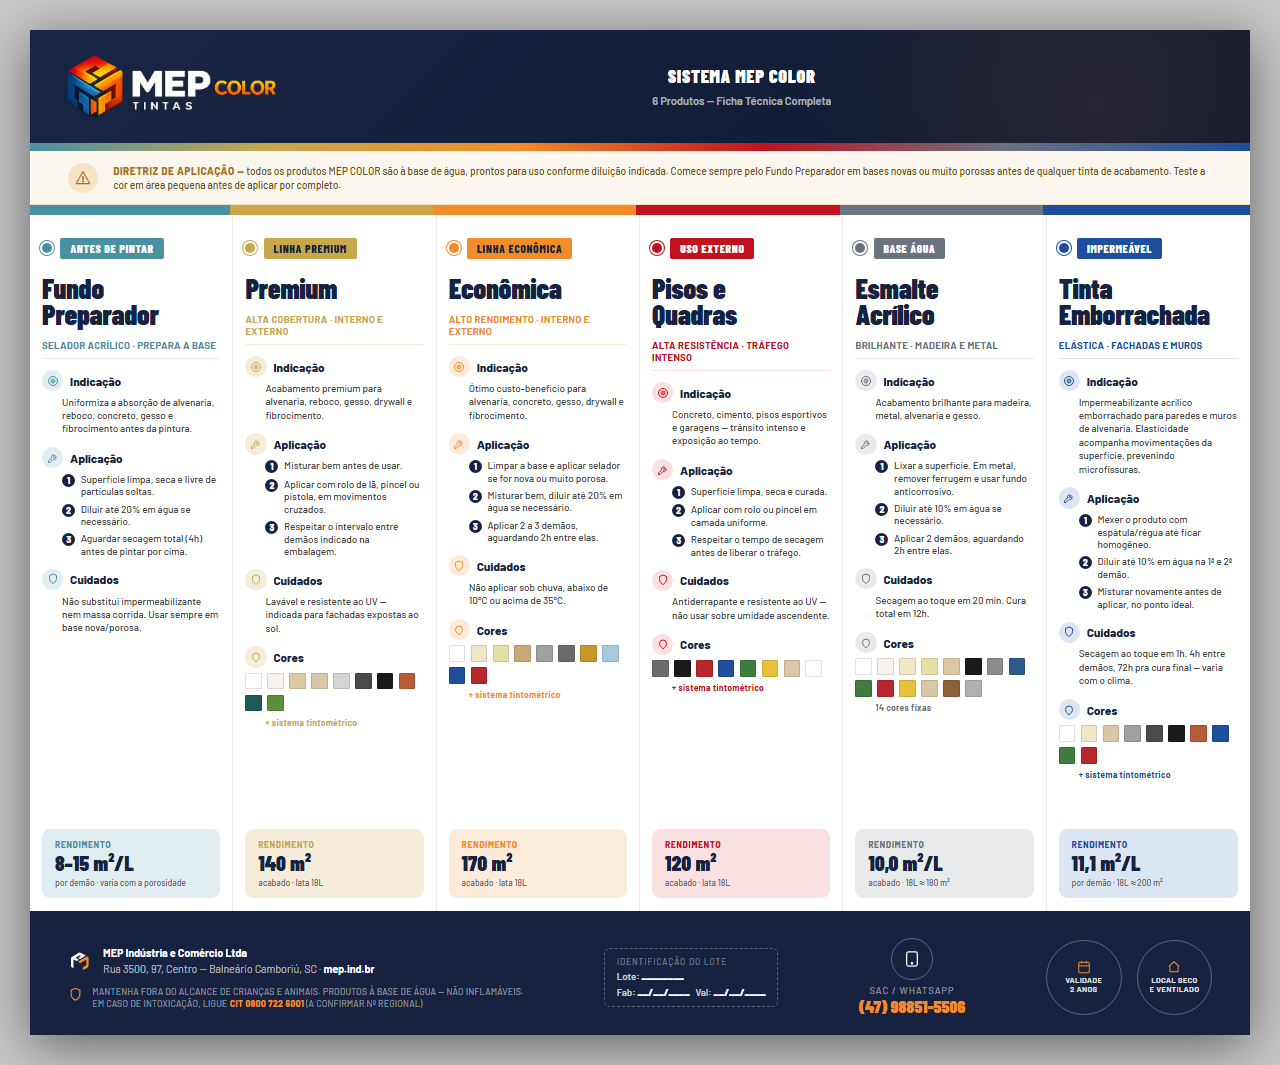
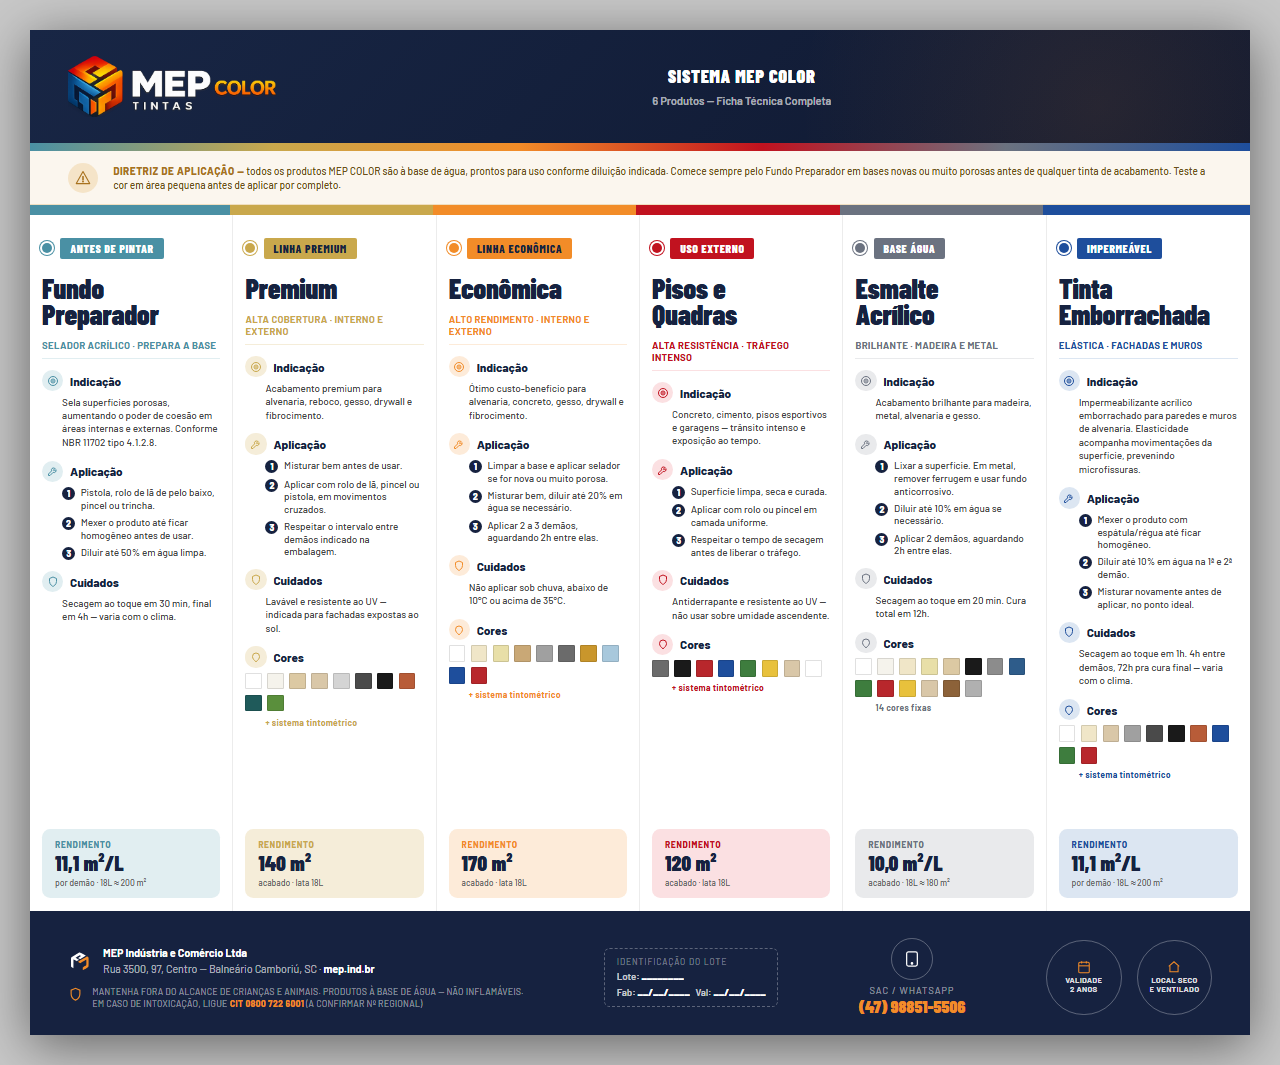
Corrige dados do Fundo Preparador com base na ficha tecnica oficial PrudenCollor

Changed region(s): [[0.0312, 0.3718, 0.1875, 0.5887], [0.0312, 0.8056, 0.125, 0.8366]]

diff --git a/marketing/conteudo/rotulo-mep-color-18l-2026-06-27/rotulo-verso-sistema.html b/marketing/conteudo/rotulo-mep-color-18l-2026-06-27/rotulo-verso-sistema.html
@@ -244,7 +244,7 @@ body { margin:0; padding:30px; background:#c8c8c8; display:flex; justify-content
           <div class="sec-icon-wrap"><svg class="sec-icon" viewBox="0 0 24 24" fill="none" stroke="currentColor" stroke-width="2"><circle cx="12" cy="12" r="9"/><circle cx="12" cy="12" r="4"/><circle cx="12" cy="12" r="0.8" fill="currentColor"/></svg></div>
           <div class="sec-title">Indicação</div>
         </div>
-        <div class="sec-body">Uniformiza a absorção de alvenaria, reboco, concreto, gesso e fibrocimento antes da pintura.</div>
+        <div class="sec-body">Sela superfícies porosas, aumentando o poder de coesão em áreas internas e externas. Conforme NBR 11702 tipo 4.1.2.8.</div>
       </div>
 
       <div class="sec">
@@ -252,9 +252,9 @@ body { margin:0; padding:30px; background:#c8c8c8; display:flex; justify-content
           <div class="sec-icon-wrap"><svg class="sec-icon" viewBox="0 0 24 24" fill="none" stroke="currentColor" stroke-width="2" stroke-linecap="round" stroke-linejoin="round"><path d="M14.7 6.3a4 4 0 00-5.4 5.4L3 18v3h3l6.3-6.3a4 4 0 005.4-5.4l-2.8 2.8-2-2 2.8-2.8z"/></svg></div>
           <div class="sec-title">Aplicação</div>
         </div>
-        <div class="passo"><div class="passo-num">1</div><div class="passo-txt">Superfície limpa, seca e livre de partículas soltas.</div></div>
-        <div class="passo"><div class="passo-num">2</div><div class="passo-txt">Diluir até 20% em água se necessário.</div></div>
-        <div class="passo"><div class="passo-num">3</div><div class="passo-txt">Aguardar secagem total (4h) antes de pintar por cima.</div></div>
+        <div class="passo"><div class="passo-num">1</div><div class="passo-txt">Pistola, rolo de lã de pelo baixo, pincel ou trincha.</div></div>
+        <div class="passo"><div class="passo-num">2</div><div class="passo-txt">Mexer o produto até ficar homogêneo antes de usar.</div></div>
+        <div class="passo"><div class="passo-num">3</div><div class="passo-txt">Diluir até 50% em água limpa.</div></div>
       </div>
 
       <div class="sec">
@@ -262,13 +262,13 @@ body { margin:0; padding:30px; background:#c8c8c8; display:flex; justify-content
           <div class="sec-icon-wrap"><svg class="sec-icon" viewBox="0 0 24 24" fill="none" stroke="currentColor" stroke-width="2"><path d="M12 21s7-3.5 7-10V5l-7-3-7 3v6c0 6.5 7 10 7 10z"/></svg></div>
           <div class="sec-title">Cuidados</div>
         </div>
-        <div class="sec-body">Não substitui impermeabilizante nem massa corrida. Usar sempre em base nova/porosa.</div>
+        <div class="sec-body">Secagem ao toque em 30 min, final em 4h — varia com o clima.</div>
       </div>
 
       <div class="rend-chip">
         <div class="rend-label">Rendimento</div>
-        <div class="rend-value">8–15 m²/L</div>
-        <div class="rend-note">por demão · varia com a porosidade</div>
+        <div class="rend-value">11,1 m²/L</div>
+        <div class="rend-note">por demão · 18L ≈ 200 m²</div>
       </div>
     </div>
 
